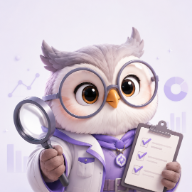
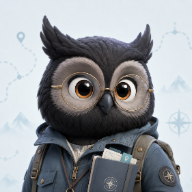
chore: refresh Mianzhi owl artwork

diff --git a/apps/desktop/src/renderer/src/assets/characters/ASSET-NOTICE.md b/apps/desktop/src/renderer/src/assets/characters/ASSET-NOTICE.md
@@ -1,10 +1,11 @@
 # Camp Companion Asset Notice
 
-Source: the latest four managed companion images selected in the local Rovai-ai configuration,
-adopted for v0.27 on 2026-07-31.
+Source: managed companion images selected in the local Rovai-ai configuration. The original set
+was adopted for v0.27 on 2026-07-31; the Mianzhi (咕咕) compound asset was refreshed from the
+latest saved local rendition on 2026-08-08.
 
-- `source.png` is the sole packaged `1080×1350` (`4:5`) portrait source for each built-in
-  companion.
+- `source.png` is the sole packaged portrait source for each built-in companion. Sources preserve
+  the curated managed image dimensions and use the intended `4:5` presentation.
 - `icon-192.png` is the sole packaged small avatar rendition.
 - `preset.json` contains the current six-field built-in identity; advanced fields are empty.
 - The existing controlled `/v1` references now resolve directly to this set. There is no parallel
@@ -19,8 +20,8 @@ project owner.
 |---|---|
[9 lines of base64/hex data omitted]
